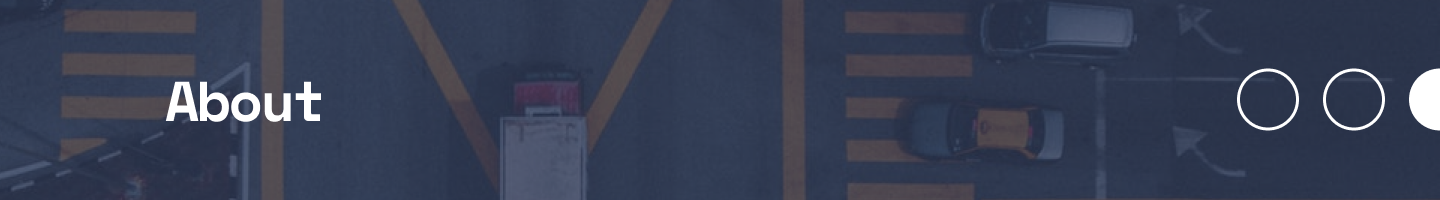
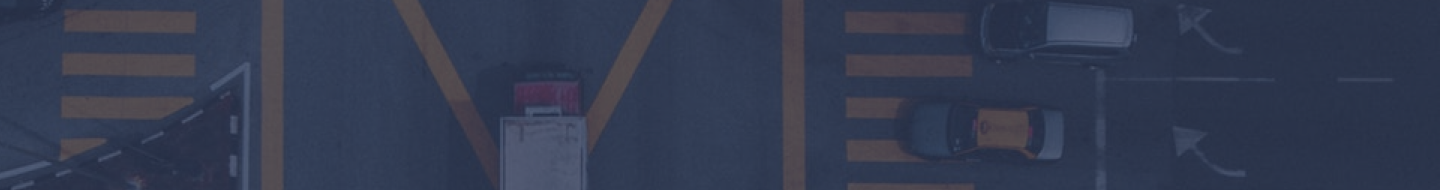
Feat: added About Page

diff --git a/src/App.css b/src/App.css
@@ -352,6 +352,28 @@ a.footer--logo {
 /* ----------------------------------------------- ----------------------------------------------- */
 /* ----------------------------------------------- ----------------------------------------------- */
 /* ----------------------------------------------- ----------------------------------------------- */
+
+/* About Page */
+
+.abt--header {
+  margin-top: 100px;
+  width: 100%;
+  height: 200px;
+  background: url(/src/assets/Images/About-Background.png);
+  background-repeat: no-repeat;
+  background-size: cover;
+}
+
+.about--title {
+  height: 100%;
+  display: flex;
+  align-items: center;
+}
+
+.about--title > h1 {
+  color: var(--snow-white);
+}
+
 /* ----------------------------------------------- ----------------------------------------------- */
 /* ----------------------------------------------- ----------------------------------------------- */
 /* ----------------------------------------------- ----------------------------------------------- */

diff --git a/src/components/About.jsx b/src/components/About.jsx
@@ -1,7 +1,21 @@
 import React from "react";
 
 const About = () => {
-  return;
+  return (
+    <>
+      {/* Header */}
+
+      <header className="abt--header">
+        <div className="container">
+          <div className="about--title">
+            <h1>About</h1>
+          </div>
+        </div>
+      </header>
+
+      {/*  */}
+    </>
+  );
 };
 
 export default About;
